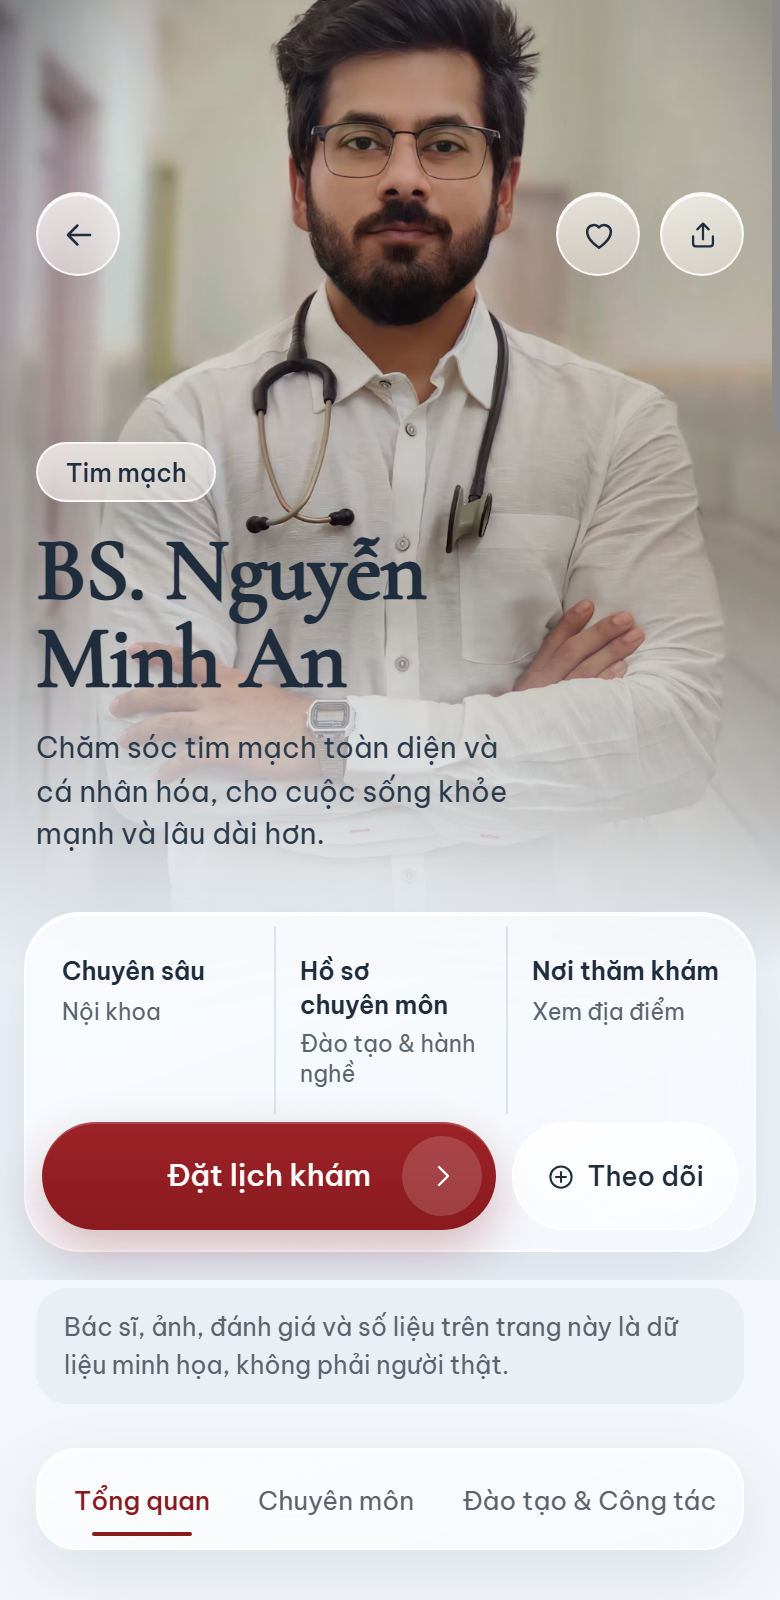
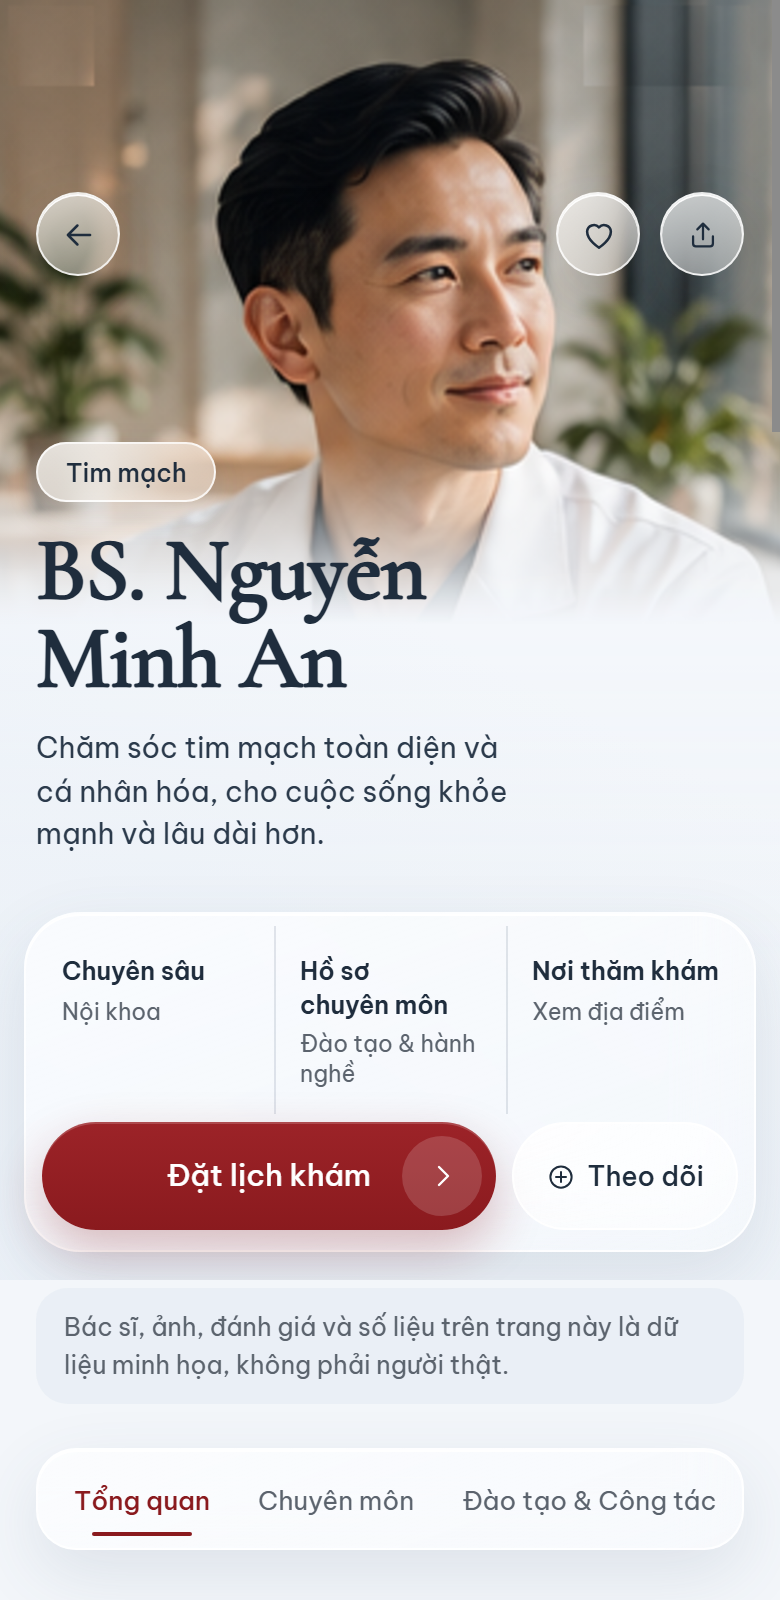
Zerone Space: illustrative profile with Asian doctor portrait

diff --git a/vi/index.html b/vi/index.html
@@ -98,7 +98,7 @@
           <p style="margin-top: 1.5rem"><a class="btn" href="contact.html">Khám phá Zerone Space</a></p>
         </div>
         <figure class="space-phone">
-          <div class="space-screen"><img src="../assets/img/zerone-space-profile.png" alt="Zerone Space trên Zalo: hồ sơ chuyên môn minh họa với nút đặt lịch khám" width="390" height="710" loading="lazy" /></div>
+          <div class="space-screen"><img src="../assets/img/zerone-space-profile.png?v=2" alt="Zerone Space trên Zalo: hồ sơ chuyên môn minh họa với nút đặt lịch khám" width="390" height="710" loading="lazy" /></div>
           <figcaption>Hồ sơ minh họa</figcaption>
         </figure>
       </div>

diff --git a/index.html b/index.html
@@ -100,7 +100,7 @@
           <p style="margin-top: 1.5rem"><a class="btn" href="contact.html">Explore Zerone Space</a></p>
         </div>
         <figure class="space-phone">
-          <div class="space-screen"><img src="assets/img/zerone-space-profile.png" alt="Zerone Space on Zalo: an illustrative professional profile with an appointment button" width="390" height="710" loading="lazy" /></div>
+          <div class="space-screen"><img src="assets/img/zerone-space-profile.png?v=2" alt="Zerone Space on Zalo: an illustrative professional profile with an appointment button" width="390" height="710" loading="lazy" /></div>
           <figcaption>Illustrative profile</figcaption>
         </figure>
       </div>
